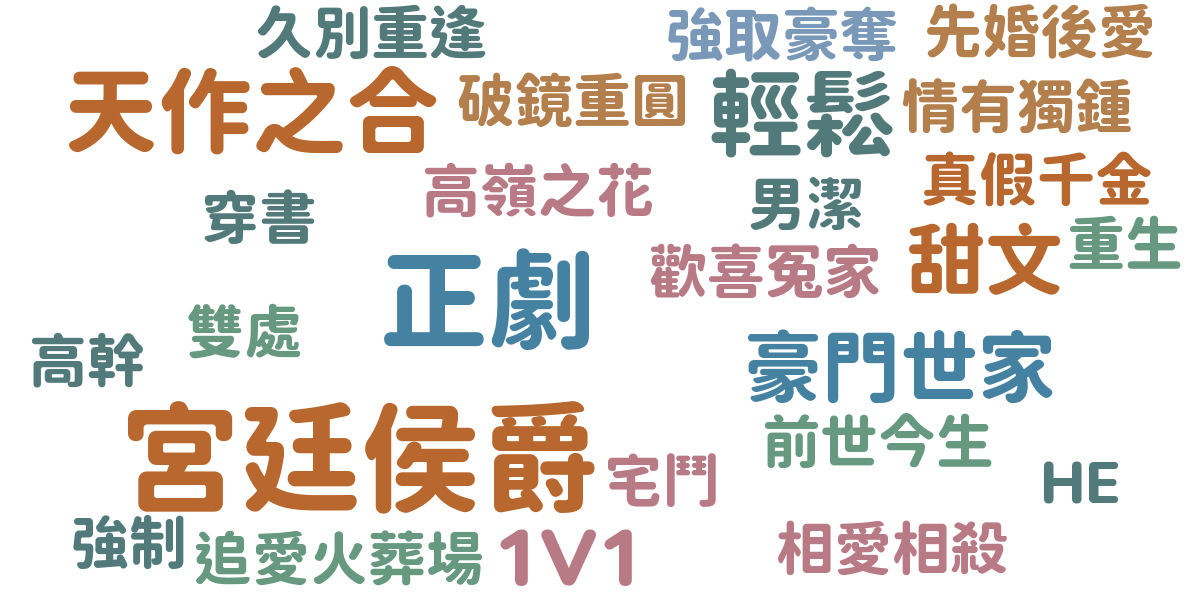
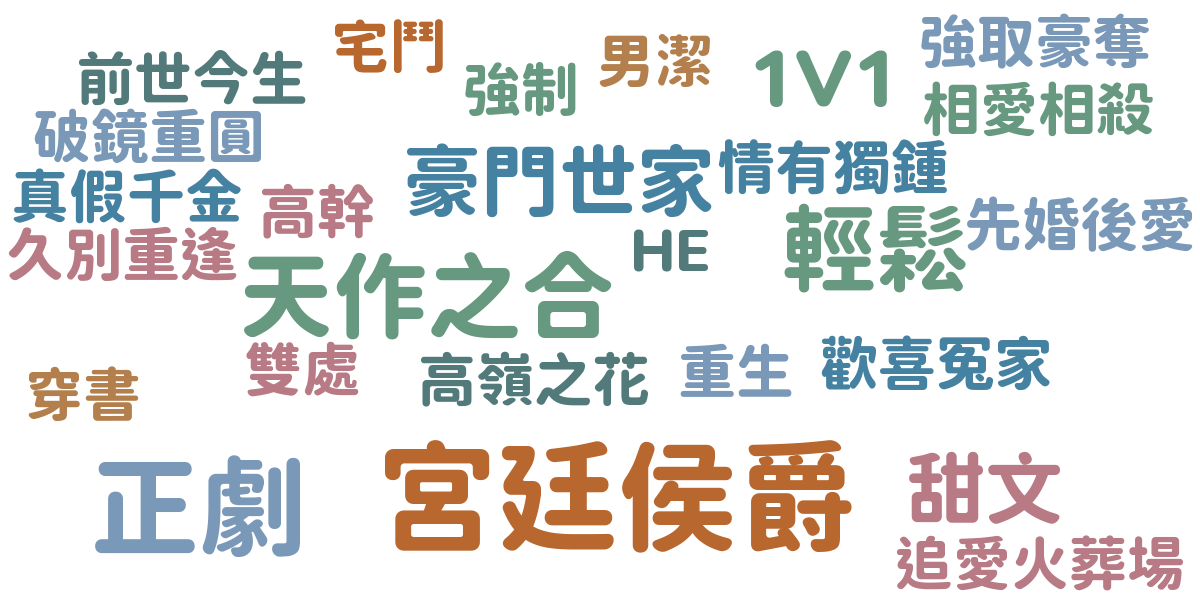
☁ Update reading word cloud via GitHub Actions

diff --git a/public/word_cloud.html b/public/word_cloud.html
@@ -23,6 +23,6 @@
     </style>
 </head>
 <body>
-    <img src="word_cloud.png?t=1768609607" alt="Word Cloud">
+    <img src="word_cloud.png?t=1768696217" alt="Word Cloud">
 </body>
 </html>
